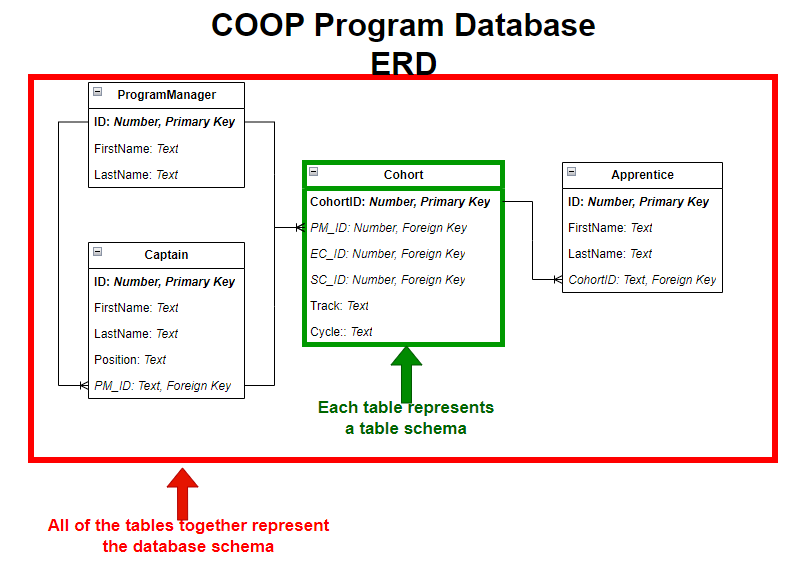
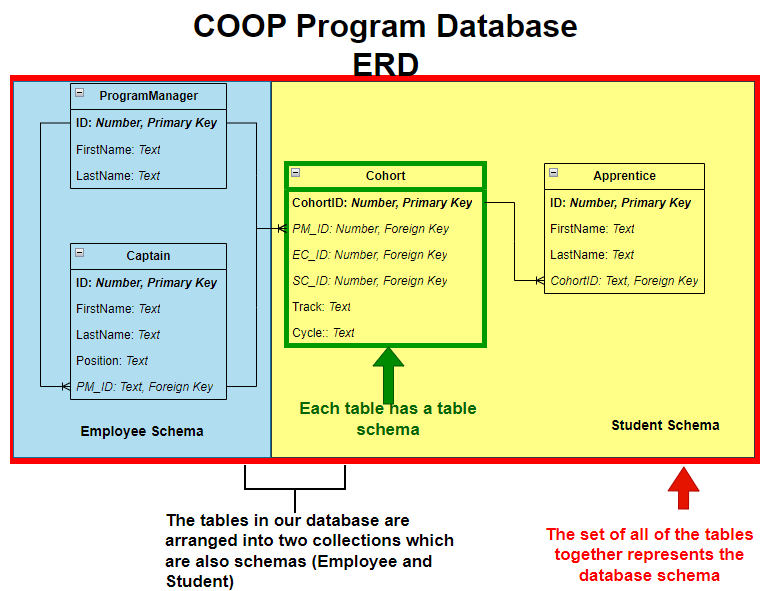
Edits to 101

diff --git a/COOP SQL 101 - Theory - Intro to Databases and Relational Databases.md b/COOP SQL 101 - Theory - Intro to Databases and Relational Databases.md
@@ -4,13 +4,13 @@ By: Martin Arroyo
 
 ## **Introduction**
 
-Welcome to **SQL 101 - Introduction to Databases and Querying**! In this class, we will cover some of the highlights of the theory behind relational databases as well as introduce you to common SQL query patterns and concepts that you will need to know about to be successful in many analytics roles. The focus of this class is to provide you with a foundational framework of understanding how databases work, their importance in today's digital world, and how these concepts are applied on-the-job.
+Welcome to **SQL 101 - Introduction to Databases and Querying**! In this class, we will cover some of the highlights of the theory behind relational databases as well as introduce you to common SQL query patterns and concepts that you should know to be successful in many analytics roles. The focus of this class is to provide you with a foundational framework to understand how databases work, their importance in today's digital world, and how these concepts are applied on-the-job.
 
 First, we'll start by providing an overview of the theory and concepts behind relational databases. Then we introduce you to SQL, the language of data. We teach you how to write basic data retrieval queries, as well as how to process and summarize data. 
 
-The content that we cover here is typically delivered over the course of an entire semester at most universities. Our aim is to introduce you to the important concepts that you'll need to know to be effective in your roles. This means that we will not go into much depth when it comes to theory. We include links to external resources that cover those topics at length to help enhance your study.
+The content that we cover here is typically delivered over the course of an entire semester at most universities. Our aim is to introduce you to the important concepts that you'll need to know to be effective on the job. This means that we will not go into as much depth as a university course when it comes to theory. We include links to external resources that cover those topics at length to help enhance your study. While being effective is great, you can greatly enhance your effectiveness by understanding the theory behind things. We hope that this material sparks an interest in you to study databases further.
 
-We hope that you come away from this class (as well as the subsequent 102 class) with a better understanding of databases, practical SQL skills to write basic to complex queries, and the excitement to learn more!
+You will come away from this class (as well as the subsequent 102 class) with a better understanding of databases, practical SQL skills to write basic to complex queries, and the excitement to learn more!
 
 ## **Databases & Relational Database Concepts**
 
@@ -18,17 +18,17 @@ We hope that you come away from this class (as well as the subsequent 102 class)
 
 ### **A. What are databases?**
 
-**Databases** are ubiquitous in today's world. Every day, we typically interact with many different databases, whether when we check our phones for updates from our favorite applications or when we go to the store and buy things we need. Without them, we would not be able to store information for very long, and the technology that we have come to depend on would not be able to function. But what is a database exactly?
+**Databases** are ubiquitous in today's world. Every day, we interact with many different databases, whether when checking our phones for updates on our favorite applications or when we go to the store and buy things. Without them, we would not be able to store information for very long, and much of the technology that we have come to depend on would not be able to function. But what is a database exactly?
 
 A database is simply an organized collection of data that is stored electronically. There are many [different kinds of databases](https://www.simplilearn.com/tutorials/dbms-tutorial/what-are-various-types-of-databases) for a wide variety use cases. For this class, we will focus primarily on one of the most popular types - **the relational database**. 
 
-While they will not be covered in this course, we must mention **NoSQL databases** if we are discussing relational databases. NoSQL databases can generally be thought of as databases which are not structured like a relational database. They typically handle semi-structured or unstructured data, unlike relational databases which impose structure on data by default. There are many different types of NoSQL databases as well. If you are curious, [here is a resource](https://www.ibm.com/topics/nosql-databases) where you can learn more about them. 
+While they will not be covered in this course, we should mention **NoSQL databases** if we are discussing relational databases. NoSQL databases can generally be thought of as databases which are not structured like a relational database. They typically handle semi-structured or unstructured data, unlike relational databases which impose structure on data by default. There are many different types of NoSQL databases. If you are curious, [here is a resource](https://www.ibm.com/topics/nosql-databases) where you can learn more about them. 
 
 A popular feature of relational databases is the language that is used to manage them, **Structured Query Language (SQL)**. Unlike relational databases, NoSQL databases - as you might expect from the name - either do not use SQL or don't *just use* SQL. 
 
 ### B. **What are relational databases?**
 
-[Here is an optional video](https://youtu.be/NvrpuBAMddw?si=L0Cl9VrACEKoh6gR) that gives you a brief overview of Relational Databases. It may be helpful to watch this short video first, then continue on with the rest of the content.
+[Here is an optional video](https://youtu.be/NvrpuBAMddw?si=L0Cl9VrACEKoh6gR) that gives you a brief overview of Relational Databases. It may be helpful to watch this short video first, then continue on with the rest of this reading.
 
 #### **Entity Relationship Diagrams (ERD)**
 
@@ -38,9 +38,9 @@ Simply put, **a relational database is a type of database that stores informatio
 
 ![COOP ERD](assets/COOP_ERD.png)
 
-The entities in this ERD should be familiar to you - it's the COOP program structure - except this is how we might model COOP in a database based on the relationships between the different roles in the program. As mentioned earlier, entities can be thought of as the tables in our database. The boxes each represent a table in our database, and the lines between each show which ones are connected. The marks at the end of a line, known as the "Crow's Foot", indicate the type of relationship between two tables. Each table has a name and inside of the box are the attributes/column names along with their data types. We'll cover more about columns, data types, and relationships a little later on.
+The entities in this ERD should be familiar to you - it's the COOP program structure - except this is how we might model COOP in a database based on the relationships between the different roles in the program. As mentioned earlier, entities can be thought of as the tables in our database. The boxes each represent a table in our database, and the lines between each entity shows which ones are connected. The marks at the end of a line, known as the "Crow's Foot", indicate the type of relationship between the two tables. Each table has a name, and inside of the box are their attributes/column names along with their data types. We'll cover more about columns, data types, and relationships a little later on.
 
-As you can see, each of the roles in COOP (Captain, Program Manager, and Student) are represented by a table. Captains and Program Managers (PMs) are connected directly to one another since PMs are their supervisors. Then we see that Apprentices connected to the Cohort, just as you are an apprentice who are assigned to one cohort. Finally, the Cohort is the glue that connects the Captains to Apprentices (and by extension the PMs.)
+As you can see, each of the roles in COOP (Captain, Program Manager, and Student) are represented by a table. Captains and Program Managers (PMs) are connected directly to one another since PMs are their supervisors. Then we see that Apprentices are connected to the Cohort, just as you are an apprentice who is assigned to one cohort. Finally, the Cohort is the glue that connects the Captains to Apprentices (and by extension the PMs.)
 
 #### **Types of Relationships**
 
@@ -85,9 +85,9 @@ Answer the questions below to check your understanding of what we have covered s
 
 ![Tables, columns, and rows delineated in a chart](assets/tables-columns-rows.png)
 
-In relational databases, our data is stored in a tabular structure called a relation. However, it is much more common to refer to relations as tables, so going forward, we will be using the terms interchangeably. **Tables are 2-dimensional structures that store data in rows and columns**. 
+In relational databases, our data is stored in a tabular structure called a relation. However, it is much more common to refer to relations as tables. We will be using the terms interchangeably. **Tables are 2-dimensional structures that store data in rows and columns**. 
 
-**Each table typically represents an "entity" or some "thing" we would like to model**. Using our ERD example from earlier, an `Apprentice` would be considered an entity. 
+**Each table typically represents an "entity" or some "thing" we would like to model in our database**. Using our ERD example from earlier, an `Apprentice` would be considered an entity. 
 
 **Columns represent attributes about an entity**. Continuing with our example, some attributes of an `Apprentice` includes their `FirstName` and their `CohortID`. 
 
@@ -107,7 +107,7 @@ SQL helps impose structure on our data by making it so that all the values in a 
 
 So far, we have seen how entities/tables can be related to one another and the types of relationships they can have (one-to-one, one-to-many, and many-to-many.) But the key (pun fully intended) to establishing these relationships lies in the concept of **Primary Keys** and **Foreign Keys**.
 
-**Primary Keys are a column (or multiple columns) in a table that identify a unique record**. In our COOP example, the `ID` column in the `ProgramManager` table would be considered a primary key because it uniquely identifies a single Program Manager. 
+**Primary Keys are a column (or multiple columns) in a table that identify a unique record**. In our COOP example, the `ID` column in the `ProgramManager` table would be considered a primary key because it uniquely identifies a single Program Manager. You might be thinking, "why not just use the `FirstName`, `LastName`, or a combination of the two instead?" The reason we wouldn't be able to use those columns as unique identifiers in our table is because it is possible that there would be Program Managers with the same first and last name. Therefore, neither of those columns (or their combination) can be used as a reliable indicator of uniqueness.
 
 **Foreign Keys are used to formally establish a relationship between two tables in the database and do not need to uniquely identify rows**. Typically, one table will have a column that references the Primary Key of another table. The column in the table that references the Primary Key in this example is called the Foreign Key. One way to think about this is by using a parent-child relationship as an example - the "parent" table in this case is the one with the Primary Key that the "child" table (with the Foreign Key) refers to. This is effectively establishing a one-to-many relationship between the "parent" and "children", since parent's can have one ore more "children" while children (in this scenario!) have one and only parent.  
 
@@ -153,9 +153,18 @@ Answer the questions below to check your understanding of what we have covered s
 
 ![Schemas in the COOP ERD](assets/schemas.png)
 
-**Schemas can be a little confusing at first because the term can be used to refer one of two things: the structure of a table or the structure of a database**. When we talk about the schema of a table, we are referring to the table's name as well as the structure of the table, such as the column names and their data types. However, when referring to the structure of a database, the schema describes the tables (e.g. tables names) that are in the database. **So we really have two types of schemas: table schemas and database schemas**. When you hear the word "schema", it could potentially mean either one of these, so it's important to understand the context in which it is mentioned; **when in doubt, clarify whether the table or database schema is being referred to.** 
+**Schemas describe how data is organized in a database**. It is a broad term that, in practice, can refer to different scopes of organization in the database.
+They can refer to the:
 
-**Metadata is a set of data that describes another set of data**. Since schemas describe either tables or databases, they are considered a type of metadata. Knowing the metadata of either the table or the database that you are using is important as it gives you critical context and information to help in your analysis.
+- **Structure of a single table**: When we talk about the schema of a table, we are referring to the table's name as well as the structure of the table, such as the column names and their data types. 
+
+- **Collections of tables within a database**: Databases can be subdivided into different schemas, which each have their own collection of tables. For example, the tables in our COOP database could potentially be split into an "Employee" schema (`ProgramManager` and `Captain`) and a "Student" schema (`Apprentice`, `Cohort`). 
+
+- **Set of ALL tables in a database**: When referring to the structure of a database as a whole, the schema describes the entire set of all tables (e.g. tables names and schemas) in the database.  
+
+When you hear the word "schema", it could potentially mean any one of these, so **it's important to understand the context in which it is mentioned; when in doubt, clarify which schema is being referred to.** 
+
+**Metadata is a set of data that describes another set of data**. Since schemas describe how data are organized in databases, they are considered a type of metadata. Knowing the metadata of either the table or the database that you are using is important as it gives you critical context and information for any analysis you may do.
 
 #### **Normalization, Denormalization, and OLTP vs OLAP**
 
@@ -185,10 +194,10 @@ Normalization, denormalization, OLTP, and OLAP are all concepts that go much dee
 
 Answer the questions below to check your understanding of what we have covered so far. Try to answer the questions first before looking at the answers:
 
-*1. What is the difference between a table schema and a database schema?*
+*1. What is a schema, and what are two possible things it could refer to?*
 <details>
     <summary>Click to reveal the answer</summary>
-    <p>The table schema provides metadata about a specific table, such as the name, the column names, and their data types. The database schema provides metadata about the database as a whole, including the names of the tables that are in it.</p>
+    <p>The schema refers to the organization of data inside of a database. Data can be organized according to different scopes. For tables, a table schema provides metadata about a specific table, such as the name, the column names, and their data types. A database schema provides metadata about the database as a whole, including the names of the tables that are in it and the possible schemas that the tables are organized intos. It could also simply refer to a collection of tables within a database.</p>
 </details>
 </br>
 
